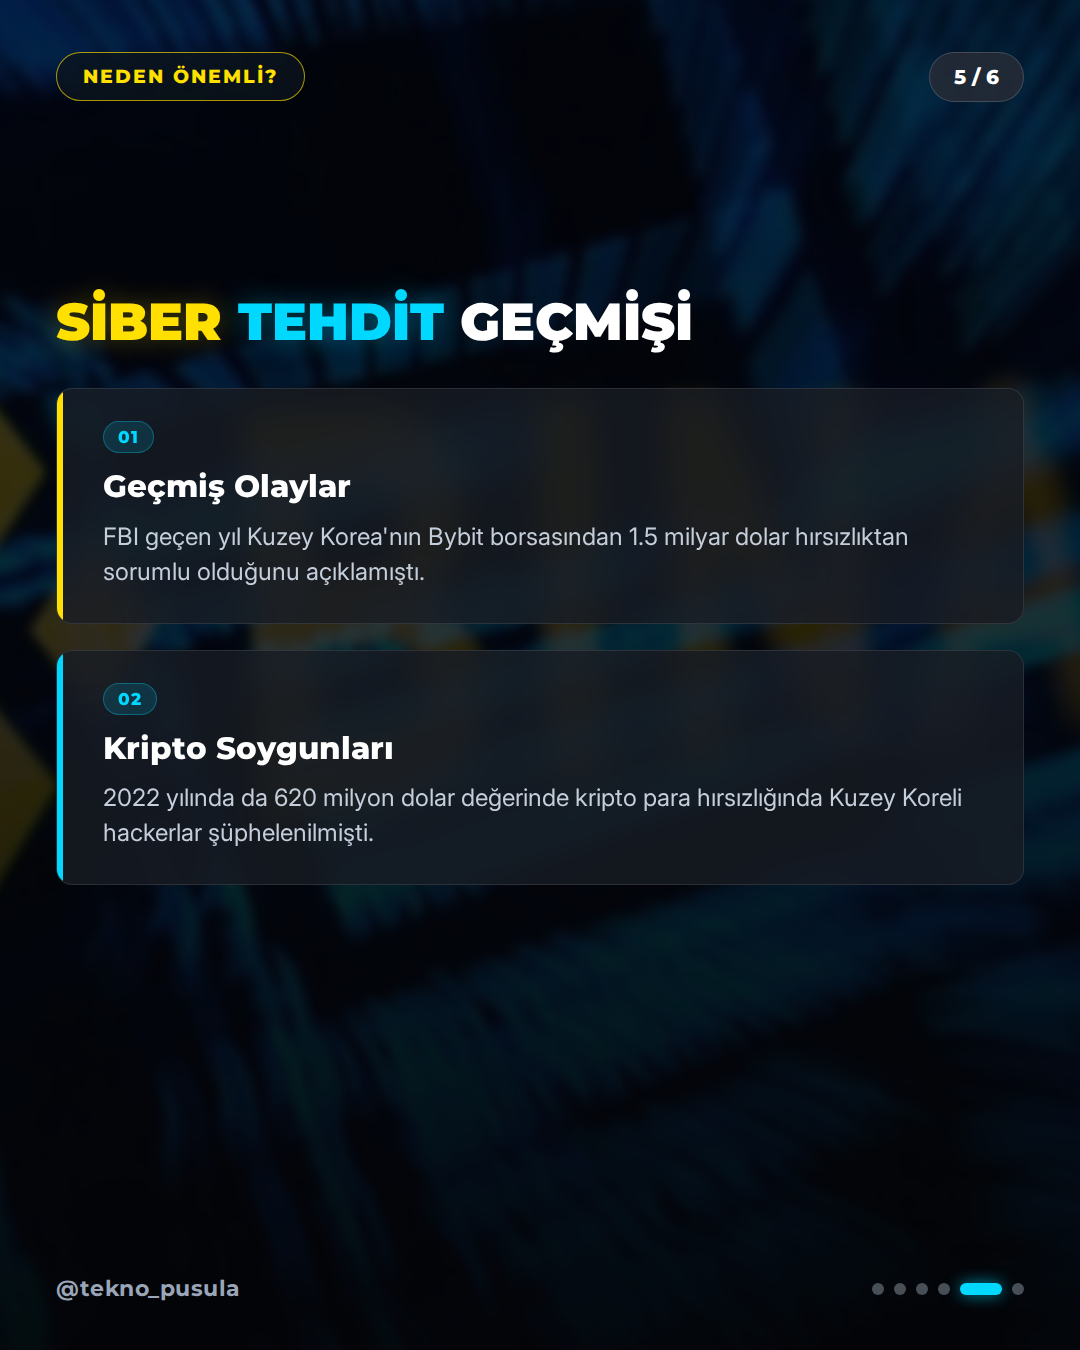
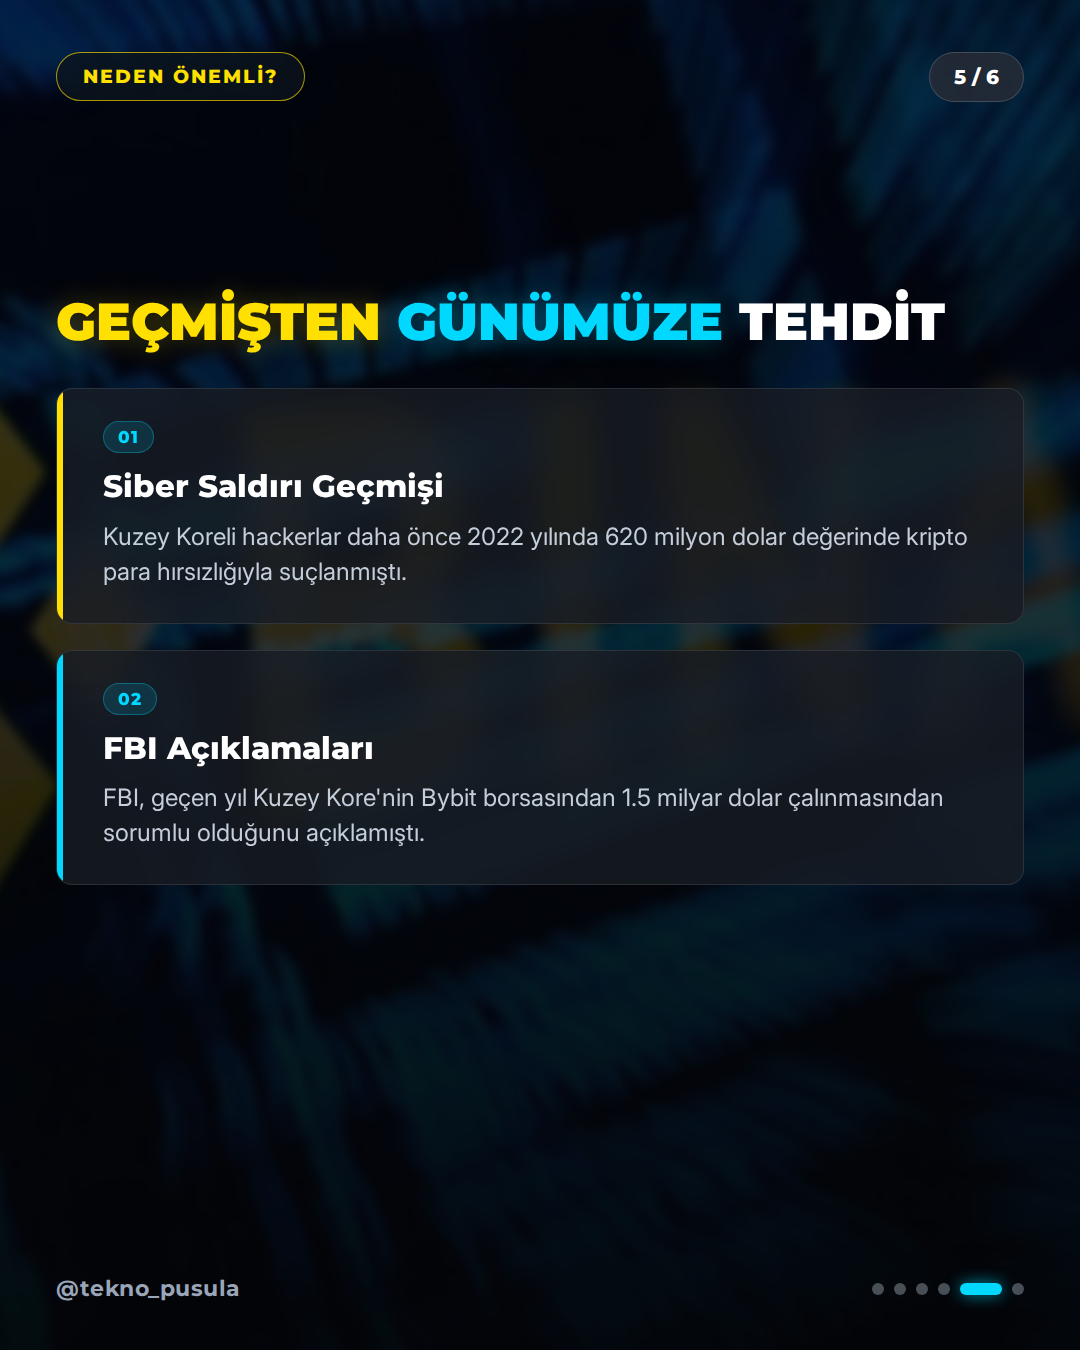
🤖 post: 2026-10-31 12:00 – Why North Korea's 'elite' hackers are the prime suspect in m

diff --git a/output/2026-10-31/02-1200-why-north-korea-s-elite-hackers-are-the-prime-su/verification.md b/output/2026-10-31/02-1200-why-north-korea-s-elite-hackers-are-the-prime-su/verification.md
@@ -3,56 +3,56 @@
 **Haber:** Why North Korea's 'elite' hackers are the prime suspect in major Binance hack
 **Canonical URL:** https://www.bbc.co.uk/news/articles/ck9dz3v7z7v3o?at_medium=RSS&at_campaign=rss
 **Kaynaklar:** BBC News – Technology, Ars Technica, The Verge, TechCrunch
-**Kontrol zamanı:** 2026-10-31T11:43:29+03:00
+**Kontrol zamanı:** 2026-10-31T11:47:05+03:00
 **Sonuç:** ✅ YAYINLANABİLİR
 
 ---
 
 ## İddia Bazlı Sonuçlar
 
-### 1. Two major blockchain analytics firms say they have robust intelligence pointing to a North Korean state-backed group as the likely culprits in the $6.3bn hack of Binance.
+### 1. İki büyük blokzincir analitik firması, dünyanın en büyük kripto para borsası Binance'in 6.3 milyar dolar (4.7 milyar sterlin) soygununda Kuzey Kore devlet destekli bir grubun parmağı olduğuna dair istihbarata sahip olduğunu belirtti.
 - **Karar:** ✅ `supported`
 - **Kanıtlar:**
   - [https://www.bbc.co.uk/news/articles/ck9dz3v7z7v3o?at_medium=RSS&at_campaign=rss](https://www.bbc.co.uk/news/articles/ck9dz3v7z7v3o?at_medium=RSS&at_campaign=rss)
     > Two major blockchain analytics firms say they have robust intelligence pointing to a North Korean state-backed group as the likely culprits in the $6.3bn (Â£4.7bn) hack of Binance, the world's largest cryptocurrency exchange.
 
-### 2. The Lazarus Group, also known as TraderTraitor, was identified with high confidence by TRM Labs and Chainalysis as the likely culprit in the Binance hack.
+### 2. TRM Labs ve Chainalysis, Binance hack olayının arkasında Lazarus Group (TraderTraitor) olduğunu yüksek güvenle tespit etti.
 - **Karar:** ✅ `supported`
 - **Kanıtlar:**
   - [https://www.bbc.co.uk/news/articles/ck9dz3v7z7v3o?at_medium=RSS&at_campaign=rss](https://www.bbc.co.uk/news/articles/ck9dz3v7z7v3o?at_medium=RSS&at_campaign=rss)
     > The Lazarus Group, a North Korean hacking unit also known as TraderTraitor, was identified "with high confidence" by TRM Labs, as well as Chainalysis.
 
-### 3. In 2014, Sony Pictures was targeted in a suspected North Korean hack following the Hollywood film The Interview, which involved a plot to assassinate Kim Jong Un.
+### 3. Sony Pictures'a yönelik hack saldırısı 2014 yılında gerçekleşti.
 - **Karar:** ✅ `supported`
 - **Kanıtlar:**
   - [https://www.bbc.co.uk/news/articles/ck9dz3v7z7v3o?at_medium=RSS&at_campaign=rss](https://www.bbc.co.uk/news/articles/ck9dz3v7z7v3o?at_medium=RSS&at_campaign=rss)
-    > Though not financial, the nation's most spectacular suspected hack took place in 2014. The target: Sony Pictures, which had made the Hollywood film The Interview. The film involves a plot to assassinate Kim.
+    > Though not financial, the nation's most spectacular suspected hack took place in 2014. The target: Sony Pictures, which had made the Hollywood film The Interview.
 
-### 4. The FBI said last year that North Korea was responsible for the theft of $1.5bn on the Bybit exchange.
+### 4. FBI, geçen yıl Kuzey Kore'nin Bybit borsasından 1.5 milyar dolar çalınmasından sorumlu olduğunu açıkladı.
 - **Karar:** ✅ `supported`
 - **Kanıtlar:**
   - [https://www.bbc.co.uk/news/articles/ck9dz3v7z7v3o?at_medium=RSS&at_campaign=rss](https://www.bbc.co.uk/news/articles/ck9dz3v7z7v3o?at_medium=RSS&at_campaign=rss)
     > Last year, the Federal Bureau of Investigation (FBI) said North Korea was responsible for the theft of $1.5bn on the Bybit exchange.
 
-### 5. North Korean hackers are suspected in the theft of $620m worth of cryptocurrency in 2022.
+### 5. Kuzey Koreli hackerlar 2022 yılında 620 milyon dolar değerinde kripto para hırsızlığıyla suçlanıyor.
 - **Karar:** ✅ `supported`
 - **Kanıtlar:**
   - [https://www.bbc.co.uk/news/articles/ck9dz3v7z7v3o?at_medium=RSS&at_campaign=rss](https://www.bbc.co.uk/news/articles/ck9dz3v7z7v3o?at_medium=RSS&at_campaign=rss)
     > North Korean hackers are also suspected in the theft of $620m worth of cryptocurrency in 2022.
 
-### 6. Binance's co-CEO Richard Teng said subsequent investigations uncovered additional points of breach in the cyberattack.
+### 6. Binance'in co-CEO'su Richard Teng, sonraki incelemelerinde ek ihlal noktaları ortaya çıkardıklarını söyledi.
 - **Karar:** ✅ `supported`
 - **Kanıtlar:**
   - [https://www.bbc.co.uk/news/articles/ck9dz3v7z7v3o?at_medium=RSS&at_campaign=rss](https://www.bbc.co.uk/news/articles/ck9dz3v7z7v3o?at_medium=RSS&at_campaign=rss)
     > "Our subsequent investigation has uncovered additional points of breach," Binance's co-CEO Richard Teng said.
 
-### 7. A Binance spokesperson said on Friday that some 80% of stolen assets have been secured, while the rest remains unaccounted for.
+### 7. Bir Binance sözcüsü Cuma günü yaptığı açıklamada, çalıntı varlıkların yaklaşık %80'inin güvence altına alındığını, geri kalannın ise henüz bulunamadığını belirtti.
 - **Karar:** ✅ `supported`
 - **Kanıtlar:**
   - [https://www.bbc.co.uk/news/articles/ck9dz3v7z7v3o?at_medium=RSS&at_campaign=rss](https://www.bbc.co.uk/news/articles/ck9dz3v7z7v3o?at_medium=RSS&at_campaign=rss)
     > Some 80% of stolen assets have been secured, a Binance spokesperson said on Friday, but the rest remains unaccounted for.
   - [https://www.bbc.co.uk/news/articles/ck9dz3v7z7v3o?at_medium=RSS&at_campaign=rss](https://www.bbc.co.uk/news/articles/ck9dz3v7z7v3o?at_medium=RSS&at_campaign=rss)
-    > "Some 80% of stolen assets have been secured, a Binance spokesperson said on Friday, but the rest remains unaccounted for."
+    > "Some 80% of stolen assets have been secured, a Binance spokesperson said on Friday, but the rest remains unaccounted for.
 
 ---
 
@@ -60,13 +60,13 @@
 
 | İddia | 1. Tur | 2. Tur | Nihai |
 |-------|--------|--------|-------|
-| Two major blockchain analytics firms say they have robust in | supported | supported | supported |
-| The Lazarus Group, also known as TraderTraitor, was identifi | supported | supported | supported |
-| In 2014, Sony Pictures was targeted in a suspected North Kor | supported | supported | supported |
-| The FBI said last year that North Korea was responsible for  | supported | supported | supported |
-| North Korean hackers are suspected in the theft of $620m wor | supported | supported | supported |
-| Binance's co-CEO Richard Teng said subsequent investigations | supported | supported | supported |
-| A Binance spokesperson said on Friday that some 80% of stole | supported | supported | supported |
+| İki büyük blokzincir analitik firması, dünyanın en büyük kri | supported | supported | supported |
+| TRM Labs ve Chainalysis, Binance hack olayının arkasında Laz | supported | supported | supported |
+| Sony Pictures'a yönelik hack saldırısı 2014 yılında gerçekle | supported | supported | supported |
+| FBI, geçen yıl Kuzey Kore'nin Bybit borsasından 1.5 milyar d | supported | supported | supported |
+| Kuzey Koreli hackerlar 2022 yılında 620 milyon dolar değerin | supported | supported | supported |
+| Binance'in co-CEO'su Richard Teng, sonraki incelemelerinde e | supported | supported | supported |
+| Bir Binance sözcüsü Cuma günü yaptığı açıklamada, çalıntı va | supported | supported | supported |
 
 ## Kaynak Metinleri
 

diff --git a/output/2026-10-31/02-1200-why-north-korea-s-elite-hackers-are-the-prime-su/captions.md b/output/2026-10-31/02-1200-why-north-korea-s-elite-hackers-are-the-prime-su/captions.md
@@ -2,42 +2,36 @@
 
 ## INSTAGRAM
 
-Binance hack olayının arkasında kim var? Blokzincir analiz firmaları TRM Labs ve Chainalysis, büyük siber saldırının arkasında Kuzey Kore bağlantılı Lazarus Grubunun olduğunu açıkladı. 6.3 milyar dolarlık tahmini varlık büyüklüğünü hedef alan bu olayda, Binance sözcüsü çalınan varlıkların yaklaşık yüzde 80'inin güvence altına alındığını belirtti. Güvenlik önlemleri her geçen gün daha kritik hale geliyor. Kripto borsalarında siber güvenlik önlemleri sence yeterince hızlı gelişiyor mu? Kaynak: BBC News – Technology.
+Binance 6.3 milyar dolarlık dev bir soygunla sarsıldı! Blokzincir analitik firmaları, olayın arkasında Kuzey Kore destekli Lazarus Group'un olduğunu açıkladı. Çalıntı varlıkların yaklaşık yüzde 80'i güvence altına alınırken, kalan kısım için çalışmalar sürüyor. Kripto para borsalarında merkeziyetçilik güvenlik açıklarını artırıyor mu? Kaynak: BBC News ve Ars Technica
 
-#Binance #LazarusGrubu #Kripto #SiberGüvenlik #Teknoloji #Blokzincir #Haber #TeknoPusula
+#Binance #KuzeyKore #KriptoGüvenliği #Blokzincir #SiberGüvenlik #Teknoloji #Haber #CryptoSecurity #Blockchain
 
 ## TIKTOK
 
-Binance hack olayında şok iddia! 6.3 milyar dolarlık devasa vurgunun arkasında Kuzey Kore bağlantılı Lazarus Grubu mu var? Detaylar için kaydır! Kaynak: The Verge.
+Binance soygununda Kuzey Kore izi! 6.3 milyar dolarlık dev vurgunun arkasındaki grup tespit edildi. Kaynak: BBC News
 
-#Binance #Lazarus #SiberGüvenlik #Kripto #Teknoloji
+#Binance #KuzeyKore #Kripto #SiberGüvenlik
 
 ## X
 
-Binance hack olayında Lazarus Grubu şüphesi! TRM Labs ve Chainalysis raporuna göre büyük siber saldırının arkasında Kuzey Kore bağlantılı grup var. Fonların %80'i kurtarıldı. Kripto güvenliği hakkında ne düşünüyorsunuz? Kaynak: BBC News – Technology.
+Binance'i sarsan 6.3 milyar dolarlık soygunun arkasında Kuzey Kore bağlantılı Lazarus Group'un olduğu tespit edildi. Varlıkların yüzde 80'i güvence altına alındı. Kaynak: BBC News
 
-#Binance #SiberGüvenlik
+#Binance #Kripto
 
 ## THREADS
 
-Binance Hack Olayında Lazarus Grubu İddiası
-
-Blokzincir analiz firmaları TRM Labs ve Chainalysis, büyük siber saldırının arkasında Kuzey Kore bağlantılı Lazarus Grubunun olduğunu açıkladı. 6.3 milyar dolarlık tahmini varlık büyüklüğünü hedef alan olayda fonların yüzde 80'i güvenceye alındı.
-
-Kripto borsalarında siber güvenlik önlemleri sence yeterince hızlı gelişiyor mu? 💭
-
-Kaynak: BBC News – Technology.
+Binance 6.3 milyar dolarlık soygunla sarsıldı! Analitik firmaları olayın arkasında Kuzey Kore destekli grubun olduğunu doğruladı. Çalıntı varlıkların yüzde 80'i kurtarıldı. 💭 Kripto borsalarında güvenlik sence yeterli mi? Kaynak: BBC News
 
 #Binance
 
 ## LINKEDIN
 
-Kripto para ekosisteminde siber güvenlik ve risk yönetimi bir kez daha odak noktasında. Binance hack olayını inceleyen TRM Labs ve Chainalysis gibi önde gelen blokzincir analiz firmaları, saldırının arkasında Kuzey Kore bağlantılı Lazarus Grubunun bulunduğunu bildirdi. 6.3 milyar dolarlık devasa büyüklükteki olayda, fonların yaklaşık yüzde 80'inin başarılı bir şekilde güvence altına alındığı ifade edilirken, kalan kısmın tespiti için çalışmalar sürüyor. Bu durum, finansal teknolojilerde proaktif güvenlik altyapılarının ve denetim mekanizmalarının ne denli hayati olduğunu bir kez daha kanıtlıyor. Sektördeki güvenlik standartlarının geleceğini nasıl değerlendiriyorsunuz? Kaynak: TechCrunch.
+Dünyanın en büyük kripto para borsası Binance, 6.3 milyar dolarlık bir siber saldırıyla karşı karşıya kaldı. TRM Labs ve Chainalysis raporlarına göre, saldırının arkasında Kuzey Kore devlet destekli Lazarus Group yer alıyor. Olay sonrasında varlıkların yüzde 80'i güvence altına alınırken, merkezi borsalardaki güvenlik protokollerinin önemi bir kez daha gündeme geldi. Kaynak: BBC News ve Ars Technica
 
-#SiberGüvenlik #Blokzincir #Fintech #KriptoPara #RiskYönetimi
+#SiberGüvenlik #Blokzincir #KriptoPara #Teknoloji #BilgiGüvenliği
 
 ## FACEBOOK
 
-Binance hack olayının arkasındaki gizem aralanıyor! Blokzincir analiz firmaları TRM Labs ve Chainalysis, büyük siber saldırının arkasında Kuzey Kore bağlantılı Lazarus Grubunun yer aldığını açıkladı. 6.3 milyar dolarlık tahmini varlık büyüklüğünü hedef alan bu olayda, Binance sözcüsü çalınan varlıkların yaklaşık yüzde 80'inin güvence altına alındığını duyurdu. Kripto borsalarında siber güvenlik önlemleri sence yeterince hızlı gelişiyor mu? Kaynak: Ars Technica.
+Binance 6.3 milyar dolarlık büyük bir soygunla sarsıldı. Blokzincir analitik firmaları, olayın arkasında Kuzey Kore destekli bir grubun olduğunu tespit etti. Çalıntı varlıkların yaklaşık yüzde 80'i güvence altına alınırken, incelemeler devam ediyor. Kripto para borsalarında güvenlik açık hakkında ne düşünüyorsunuz? Kaynak: BBC News
 
-#Binance #SiberGüvenlik #Kripto #Teknoloji #Haber
+#Binance #KriptoGüvenliği #Teknoloji #Haber
